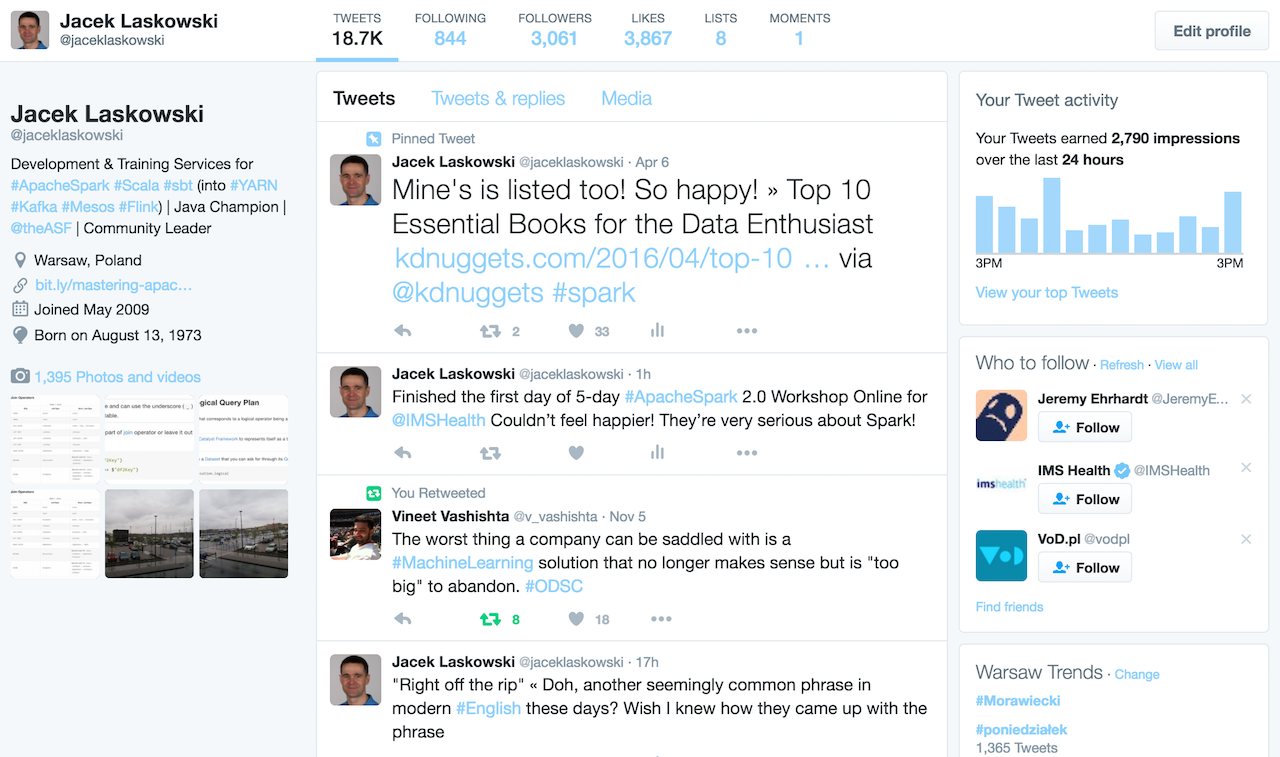
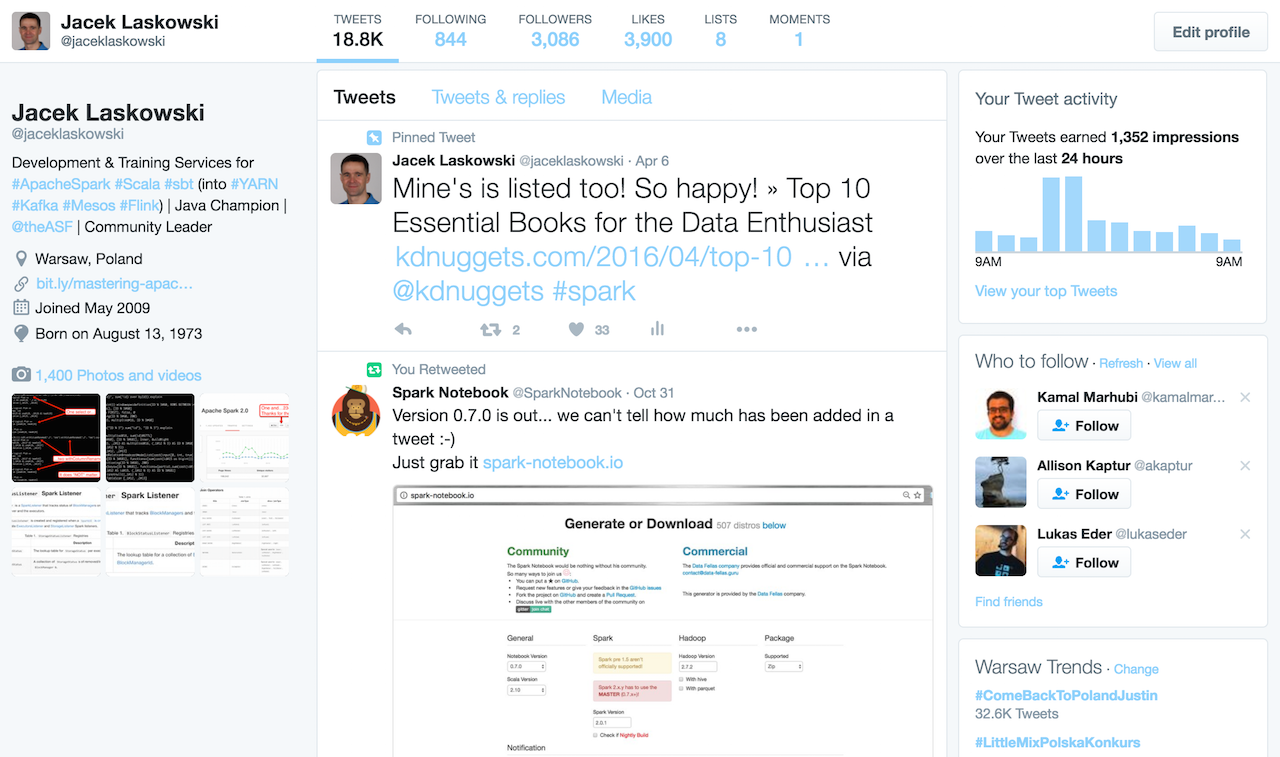
[SLIDES][MINOR] Stats updates (before workshop)

diff --git a/slides/00_agenda-4-days.html b/slides/00_agenda-4-days.html
@@ -105,6 +105,22 @@
               <img width="60%" src="images/jaceklaskowski-credits-spark-20.png" style="border: 0">
             </p>
           </section>
+          <section id="about-stackoverflow">
+            <p>
+              <a href="http://stackoverflow.com/users/1305344/jacek-laskowski">http://stackoverflow.com/users/1305344/jacek-laskowski</a>
+            </p>
+            <p>
+              <img width="80%" src="images/jaceklaskowski-stackoverflow-stats.png" style="border: 0">
+            </p>
+          </section>
+          <section id="about-twitter">
+            <p>
+              <a href="https://twitter.com/jaceklaskowski">https://twitter.com/jaceklaskowski</a>
+            </p>
+            <p>
+              <img width="90%" src="images/jaceklaskowski-twitter-stats.png" style="border: 0">
+            </p>
+          </section>
         </section>
 
         <section>

diff --git a/slides/README.md b/slides/README.md
@@ -5,7 +5,7 @@
 
 * [3-Day Workshop Agenda](http://blog.jaceklaskowski.pl/spark-workshop/slides/00_agenda.html)
 * [2-Day Workshop Agenda](http://blog.jaceklaskowski.pl/spark-workshop/slides/00_agenda-2-days.html) <-- taught in London at [Apache Spark 2.0 Workshop](http://www.meetup.com/London-Spark-Coding-Dojo/events/233488536/)
-* [4-Day Workshop Agenda](http://blog.jaceklaskowski.pl/spark-workshop/slides/00_agenda-4-days.html) <-- taught in [Karlskrona Sweden](https://en.wikipedia.org/wiki/Karlskrona)
+* [4-Day Workshop Agenda](http://blog.jaceklaskowski.pl/spark-workshop/slides/00_agenda-4-days.html) <-- taught in [Karlskrona Sweden](https://en.wikipedia.org/wiki/Karlskrona) and once remotely (5 days x 4 hours)
 
 ### Day 1 - Introduction to Spark, Scala and Tools
 
